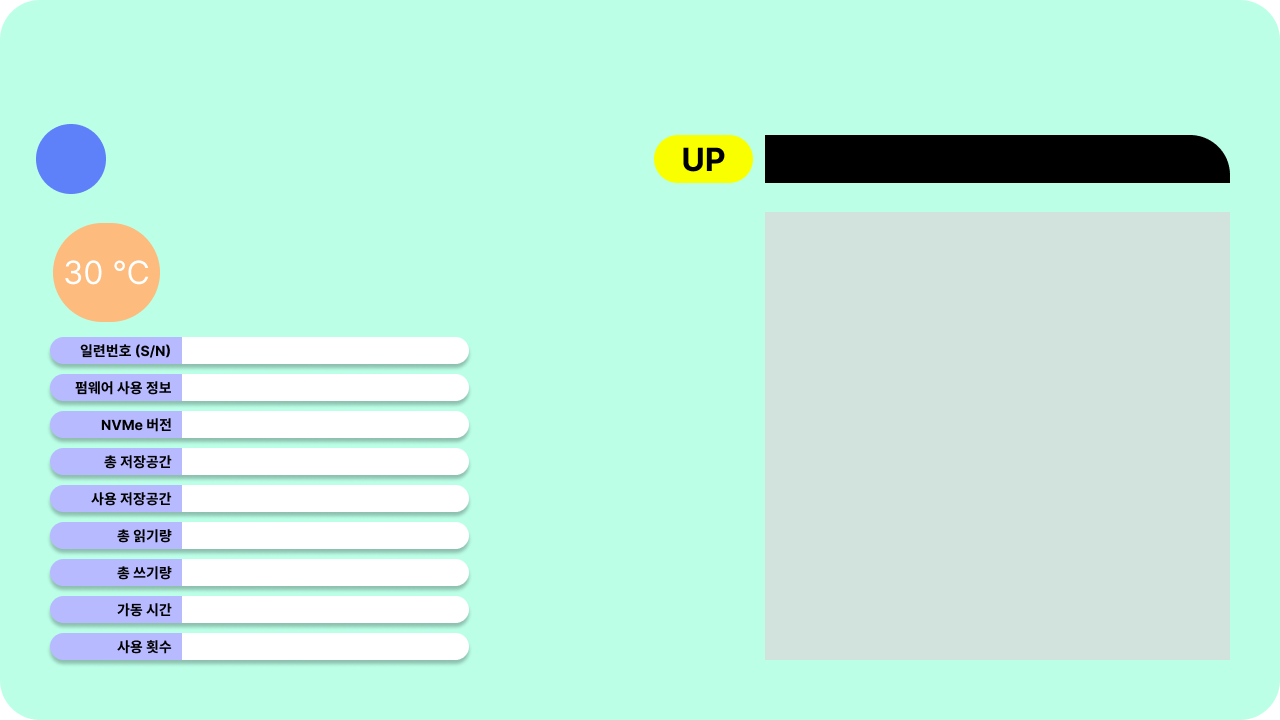
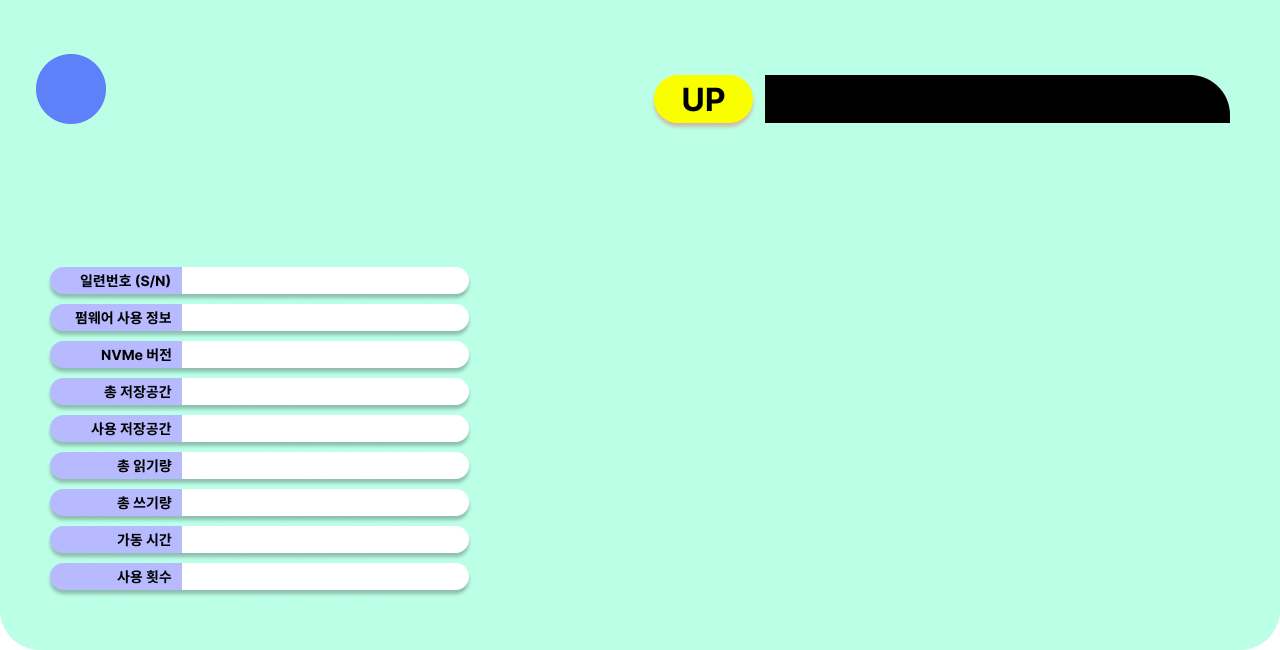
1213

diff --git a/Code/Viewer_1211.py b/Code/Viewer_1211.py
@@ -1,6 +1,7 @@
 from tkinter import *
 import os
 import ctypes
+from ctypes import windll
 import pathlib
 import stat
 import subprocess
@@ -13,18 +14,18 @@ from tkinter.font import *
 ctypes.windll.shcore.SetProcessDpiAwareness(True)
 
 root = Tk()
-# set a title
-#root.title('Simple Explorer')
+root.wm_attributes('-transparentcolor', 'grey')
 
-root.grid_columnconfigure(1, weight=1)
-root.grid_rowconfigure(1, weight=1)
+# no title
+root.overrideredirect(True)
 
 # set a window
-root.geometry("1280x720+100+100")           # 1280x800+100+100
-#root.resizable(True, True)
+full_size = "1280x720+100+100"
+root.geometry(full_size)                    # default : 1280x800+100+100
+root.resizable(False, False)                # fixed
 
 
-#smart
+# SMART.py
 device_name_list = get_device_name()
 device = []
 
@@ -48,6 +49,19 @@ def changeDirToC(event=None):
     tmp2 = tmp.split(' ')
     if (tmp2[1] == 'Celsius'):
         temper.set(tmp2[0])
+        print(int(tmp2[0]))
+        if int(tmp2[0]) > 35:
+            temperCel.configure(image=redCel)
+            var5.configure(bg='#FDBB7D')
+        elif int(tmp2[0]) > 30:
+            temperCel.configure(image=yellowCel)
+            var5.configure(bg='#F1F451')
+        elif int(tmp2[0]) < 30:
+            temperCel.configure(image=blueCel)
+            var5.configure(bg='#7DA9FD')
+        else:
+            temperCel.configure(image=grayCel)
+            var5.configure(bg='#CACACA')
     else:
         temper.set('-')
 
@@ -71,14 +85,20 @@ def changeDirToD(event=None):
     tmp2 = tmp.split(' ')
     if (tmp2[1] == 'Celsius'):
         temper.set(tmp2[0])
+        if int(tmp2[0]) > 35:
+            temperCel.configure(image=redCel)
+            var5.configure(bg='#FDBB7D')
+        elif int(tmp2[0]) > 30:
+            temperCel.configure(image=yellowCel)
+            var5.configure(bg='#F1F451')
+        elif int(tmp2[0]) < 30:
+            temperCel.configure(image=blueCel)
+            var5.configure(bg='#7DA9FD')
+        else:
+            temperCel.configure(image=grayCel)
+            var5.configure(bg='#CACACA')
     else:
         temper.set('-')
-
-def close():
-    root.quit()
-    root.destroy()
-
-menubar=Menu(root)
 
 
 # match (attribute - value)
@@ -144,16 +164,36 @@ cycles = StringVar(
 )
 
 
+initx = 0
+inity = 0
+def start_move(event):
+    print(event)
+    initx = event.x
+    inity = event.y
 
+def on_move(event):
+    x = root.winfo_x() + event.x - initx
+    y = root.winfo_y() + event.y - inity
+    root.geometry("+%s+%s" % (x, y))
+
+def stop_move(event):
+    initx = None
+    inity = None
+
+menu_photo = PhotoImage(file='img/menu.png')
+menu_label = Label(root, border=0, bg='grey', image=menu_photo)
+menu_label.pack(fill=BOTH, expand=True)
+
+menu_label.bind("<ButtonPress-1>", start_move)
+menu_label.bind("<ButtonRelease-1>", stop_move)
+menu_label.bind("<B1-Motion>", on_move)
 
 frame_photo = PhotoImage(file='img/frame.png')
-frame_label = Label(root, border=0, bg='white', image=frame_photo)
+frame_label = Label(root, border=0, bg='grey', image=frame_photo)
 frame_label.pack(fill=BOTH, expand=True)
 
 
-# Frame1 : Drive Type + Disk Name
-#frame1 = Frame(root, relief="solid")
-#frame1.place(x=36, y=114, width=583, height=70)
+# : Drive Type + Disk Name
 font1 = Font(family="Inter", weight='bold', size = 24)
 label1=Label(root, textvariable=disk, font=font1, bg='#5E80F8', fg='white')
 label1.place(x=36+18,y=114+21)
@@ -163,57 +203,56 @@ var1=Label(root, textvariable=model_num, font=font3, bg='#BBFFE7')
 var1.place(x=36+84, y=114+21)
 
 
-# Frame2 : Disk Details
+# : Disk Details
 font2 = Font(family="Inter", weight='bold', size = 10)
-#label2=Label(root, text="일련번호 (S/N)")
-#label2.place(x=30, y=5)
+
+# 일련번호 (S/N)
 var2=Label(root, textvariable=serial_num, font=font2, border=0, bg='white')
 var2.place(x=50+152, y=337+5)
 
-#label3=Label(root, text="펌웨어 버전 정보")
-#label3.place(x=30, y=42)
+# 펌웨어 버전 정보
 var3=Label(root, textvariable=firm_ver, font=font2, border=0, bg='white')
 var3.place(x=50+152, y=337+42)
 
-#label4=Label(root, text="NVMe 버젼")
-#label4.place(x=30, y=79)
+# NVMe 버젼
 var4=Label(root, textvariable=nvme_ver, font=font2, border=0, bg='white')
 var4.place(x=50+152, y=337+79)
 
 
 # 온도 : 위험 빨강='#FDBB7D', 평범 파랑='#7DA9FD', 경고 노랑='#F1F451', 알수없음='#CACACA'
-font5 = Font(family="Inter", weight='bold', size = 24)
+blueCel = PhotoImage(file='img/blueCel.png')
+redCel = PhotoImage(file='img/redCel.png')
+yellowCel = PhotoImage(file='img/yellowCel.png')
+grayCel = PhotoImage(file='img/grayCel.png')
+temperCel = Label(root, border=0, bg='#BBFFE7', image=blueCel)
+temperCel.place(x=53, y=233)
+
+font5 = Font(family="Inter", weight='bold', size = 22)
 var5=Label(root, textvariable=temper, font=font5, bg='#FDBB7D', fg='white')
-var5.place(x=53+10, y=223+27)
+var5.place(x=53+7, y=223+27+10)
 
 
-#label6=Label(root, text="총 저장공간")
-#label6.place(x=30, y=116)
+# 총 저장공간
 var6=Label(root, textvariable=total_cap, font=font2, border=0, bg='white')
 var6.place(x=50+152, y=337+116)
 
-#label7=Label(root, text="점유중인 저장공간")
-#label7.place(x=30, y=153)
+# 점유중인 저장공간
 var7=Label(root, textvariable=util_cap, font=font2, border=0, bg='white')
 var7.place(x=50+152, y=337+153)
 
-#label8=Label(root, text="총 읽기량")
-#label8.place(x=30, y=190)
+# 총 읽기량
 var8=Label(root, textvariable=data_read, font=font2, border=0, bg='white')
 var8.place(x=50+152, y=337+190)
 
-#label9=Label(root, text="총 쓰기량")
-#label9.place(x=30, y=227)
+# 총 쓰기량
 var9=Label(root, textvariable=data_write, font=font2, border=0, bg='white')
 var9.place(x=50+152, y=337+227)
 
-#label10=Label(root, text="가동 시간")
-#label10.place(x=30, y=264)
+# 가동 시간
 var10=Label(root, textvariable=power_hours, font=font2, border=0, bg='white')
 var10.place(x=50+152, y=337+264)
 
-#label11=Label(root, text="사용 횟수")
-#label11.place(x=30, y=301)
+# 사용 횟수
 var11=Label(root, textvariable=cycles, font=font2, border=0, bg='white')
 var11.place(x=50+152, y=337+301)
 
@@ -233,9 +272,6 @@ def pathChange(*event):
         list.insert("end", file) # end : 목록의 마지막에 이어 붙이기. // 원본 : list.insert(0, file)
                     
     # 만약 파일의 숨김 속성('h')이 1이라면 listbox 상에서 하이라이트 처리.
-    # 프로그램 처음 실행시에는 정상적으로 작동하는데, 경로를 이동하면 함수 자체는 거치는데 하이라이트가 안되는 현상 발생. 버그 수정 필요합니다.
-    # 프로그램 처음 실행시에는 정상적으로 작동하는데, 경로를 이동하면 함수 자체는 거치는데 하이라이트가 안되는 현상 발생. 버그 수정 필요합니다.
-    # 프로그램 처음 실행시에는 정상적으로 작동하는데, 경로를 이동하면 함수 자체는 거치는데 하이라이트가 안되는 현상 발생. 버그 수정 필요합니다.
     for file in directory:
         if(has_hidden_attribute(file) == 1) :
             print("Found a hidden one     @ " + str(count))
@@ -262,6 +298,7 @@ def file_magician():
     else :
         hide_file(picked)
         print("Selected file is now hidden.")
+    pathChange()
         
 def hide_file(filepath):
     subprocess.check_call(["attrib", "+H", filepath])
@@ -297,9 +334,9 @@ def open_popup():
     top.resizable(False, False)
     top.title("Child Window")
     top.columnconfigure(0, weight=1)
-    Label(top, text='Enter File or Folder name').place(x=0, y=0, relx=0.5)
-    Entry(top, textvariable=newFileName).place(x=0, y=50, relx=0.5, relwidth=0.8)
-    Button(top, text="Create", command=newFileOrFolder).place(x=0, y=100, relx=0.5)
+    Label(top, text='Enter File or Folder name').place(x=0, y=0)
+    Entry(top, textvariable=newFileName).place(x=0, y=50, relwidth=0.8)
+    Button(top, text="Create", command=newFileOrFolder).place(x=0, y=100)
 
 def newFileOrFolder():
     # check if it is a file name or a folder
@@ -327,12 +364,12 @@ currentPath.trace('w', pathChange)
 # Frame3 : File Explorer (button, path, listBox)
 
 button_img1 = PhotoImage(file='img/upButton.png')
-Button(root, text='Folder Up', command=goBack, relief='flat', image=button_img1, bg='#BBFFE7', activebackground='#BBFFE7').place(x=654, y=135)
+Button(root, command=goBack, border=0, image=button_img1, bg='#BBFFE7', activebackground='#BBFFE7').place(x=654, y=145)
 
 # Keyboard shortcut for going up
 root.bind("<Alt-Up>", goBack)
 font4 = Font(family="Inter", weight='bold', size = 12)
-Entry(root, font=font4, textvariable=currentPath, width=40, border=0, bg='black', fg='white').place(x=770, y=147)
+Entry(root, font=font4, textvariable=currentPath, width=40, border=0, bg='black', fg='white').place(x=770, y=157)
 
 # List of files and folder
 list = Listbox(root, width=60, height=21, relief='flat')
@@ -342,18 +379,38 @@ list.place(x=765, y=212)
 list.bind('<Double-1>', changePathByClick)
 list.bind('<Return>', changePathByClick)
 
-# Menu
-menubar = Menu(root)
-# change directory
-menubar.add_command(label="C: drive", command=changeDirToC)
-menubar.add_command(label="D: drive", command=changeDirToD)
-# Adding a new File button
-menubar.add_command(label="Add File or Folder", command=open_popup)
-menubar.add_command(label="(un)Hide File", command=file_magician)
-# Adding a quit button to the Menubar
-menubar.add_command(label="Quit", command=root.quit)
-# Make the menubar the Main Menu
-root.config(menu=menubar)
+
+cButton = PhotoImage(file='img/cButton.png')
+Button(root, command=changeDirToC, border=0, 
+        image=cButton, bg='#D9D9D9', activebackground='#D9D9D9').place(x=72, y=11)
+
+dButton = PhotoImage(file='img/dButton.png')
+Button(root, command=changeDirToD, border=0, 
+        image=dButton, bg='#D9D9D9', activebackground='#D9D9D9').place(x=192, y=11)
+
+addButton = PhotoImage(file='img/add.png')
+Button(root, command=open_popup, border=0, 
+        image=addButton, bg='#D9D9D9', activebackground='#D9D9D9').place(x=765, y=11)
+
+
+
+
+hideButton = PhotoImage(file='img/hide.png')
+Button(root, command=file_magician, border=0, 
+        image=hideButton, bg='#D9D9D9', activebackground='#D9D9D9').place(x=880, y=11)
+
+#def detect():
+#    result = subprocess.call(["python", "kicomav-master/Release/k2.py", "img", "-r"], shell=True)
+#detectButton = PhotoImage(file='img/detectButton.png')
+#Button(root, command=detect, border=0, 
+#        image=detectButton, bg='#BBFFE7', activebackground='#D9D9D9').place(x=654, y=83)
+
+quitButton = PhotoImage(file='img/quit.png')
+Button(root, command=root.quit, border=0, 
+        image=quitButton, bg='#D9D9D9', activebackground='#D9D9D9').place(x=1212, y=15)
+
+
+
 
 
 changeDirToC()
